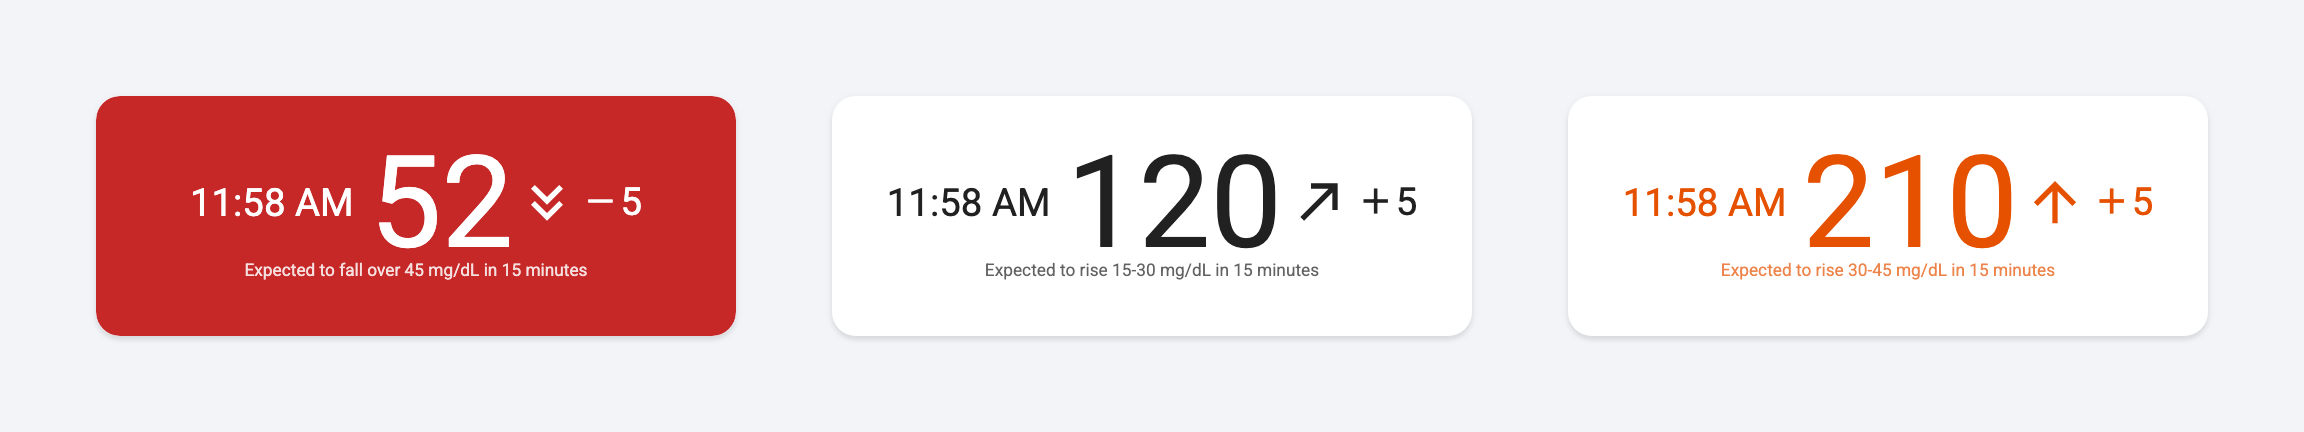
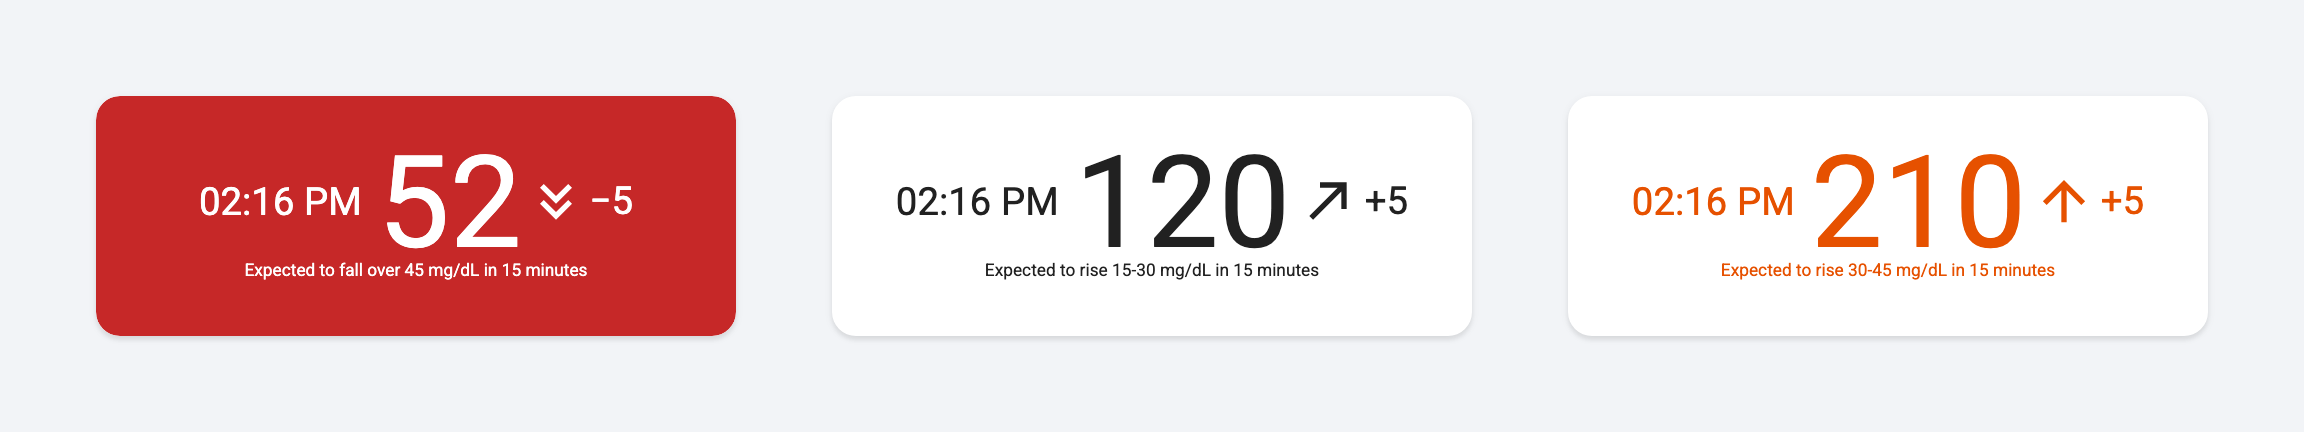
fix: keep a stale card readable, and stop the forecast fading twice
The stale fade has been 0.5 since v0.9.3, which puts the reading at 3.2:1
against the card -- exactly on the large-text floor, and visibly washed
out at a glance. A stale card is still reporting the last reading anyone
got, and that is information you want even when it is old: the fade has
to say "do not trust this as current" without saying "stop being able to
see it". 0.7 holds the reading at 5.9:1 and is still an obvious step
below the rung above it, which moves to 0.85 to keep the three rungs
apart.

The compounding was the bigger half. Opacity multiplies down the tree, so
the forecast line's own 0.7 composited with the card fade to 0.35 and
2.1:1 on a stale card, below every threshold at any size, and to 2.6:1 on
the orange out-of-range zones even on a current reading. It reads as
secondary from font size alone -- 2.7u against the reading's 20u -- so
the opacity was pure cost. Removing it also retires the urgent-zone
override, which existed only to claw back what the 0.7 had taken: white
on red goes from 4.4:1 to 5.6:1 by deleting both.

Adds the first suite that reads the real stylesheet. Every other test
file mocks it away, so the CSS the card actually renders through had no
assertions at all -- an inverted or unreadable ladder passed the entire
suite. It pins the rung ordering, a contrast floor per rung, and the
absence of a compounding opacity on the forecast line.

diff --git a/test/styles.test.js b/test/styles.test.js
@@ -1,0 +1,127 @@
+import { describe, it, expect, vi } from 'vitest';
+
+/*
+ * The one suite that reads the REAL stylesheet.
+ *
+ * Every other test file mocks `sugartv-card-styles.js` away, so the card's
+ * logic is covered and the CSS that renders it is not. That gap is where the
+ * age fade actually lives: `_ageTier` can name the rungs perfectly and the card
+ * still draw them in the wrong order, or draw a stale reading too faint to
+ * read, and no assertion anywhere would notice.
+ *
+ * `css` is stubbed to return the raw string so the rules can be parsed.
+ */
+vi.mock('lit', () => ({
+    css: (strings, ...values) =>
+        strings.reduce(
+            (acc, s, i) => acc + s + (values[i] !== undefined ? values[i] : ''),
+            '',
+        ),
+}));
+
+const { cardStyles } = await import('../src/sugartv-card-styles.js');
+
+// The opacity declared inside `:host(<selector>)`, or null when the rung
+// declares none, which is how "full strength" is spelled.
+const hostOpacity = (selector) => {
+    const block = cardStyles.match(
+        new RegExp(`:host\\(\\.${selector}\\)\\s*\\{([^}]*)\\}`),
+    );
+    if (!block) return null;
+    const found = block[1].match(/opacity:\s*([\d.]+)/);
+    return found ? Number(found[1]) : null;
+};
+
+/*
+ * Composite text over the card and score it the way WCAG does. The card's
+ * default text is HA's #212121 on a white card; the numbers below are the
+ * reason the rungs sit where they do rather than on round-looking values.
+ */
+const contrastOnWhite = (alpha) => {
+    const channel = Math.round(255 - alpha * (255 - 33));
+    const linear = (v) => {
+        const s = v / 255;
+        return s <= 0.03928 ? s / 12.92 : ((s + 0.055) / 1.055) ** 2.4;
+    };
+    const luminance = linear(channel); // grey, so one channel describes it
+    return (1.0 + 0.05) / (luminance + 0.05);
+};
+
+describe('the age fade in the stylesheet', () => {
+    it('draws a current reading at full strength', () => {
+        // No rung of its own: full strength is the card's ordinary appearance.
+        expect(hostOpacity('current')).toBeNull();
+    });
+
+    /*
+     * The direction, asserted on the CSS rather than on the tier names. An
+     * inverted stylesheet passes every logic test in the suite, which is how
+     * the backwards version shipped in two releases.
+     */
+    it('never draws an older rung brighter than a newer one', () => {
+        const current = 1;
+        const aging = hostOpacity('aging');
+        const stale = hostOpacity('stale');
+
+        expect(aging).toBeLessThan(current);
+        expect(stale).toBeLessThan(aging);
+    });
+
+    /*
+     * A stale card is still reporting the last reading anyone got, which is
+     * information you want even when it is old. The fade has to say "do not
+     * trust this as current" without saying "you may stop being able to see
+     * it". 0.5 shipped for five releases and sat at 3.2:1, right on the
+     * large-text floor.
+     */
+    it('keeps a stale reading readable', () => {
+        expect(contrastOnWhite(hostOpacity('stale'))).toBeGreaterThanOrEqual(
+            4.5,
+        );
+    });
+
+    it('keeps every rung above it readable too', () => {
+        expect(contrastOnWhite(hostOpacity('aging'))).toBeGreaterThanOrEqual(
+            4.5,
+        );
+    });
+
+    /*
+     * Opacity multiplies through the tree, so any element carrying its own
+     * fades twice on a stale card. The forecast line used to carry 0.7, which
+     * put it at 2.1:1 there -- below every threshold at any size. Hierarchy on
+     * that line is font size now, and this pins it: re-adding an opacity here
+     * would silently reintroduce the compounding.
+     */
+    it('leaves the forecast line without an opacity to compound', () => {
+        /*
+         * EVERY rule whose selector list mentions .prediction, not the first
+         * one that matches. The first version of this test looked for
+         * `.prediction {` and found the grouped `.time, .value, .delta,
+         * .prediction {` rule instead, which has never carried an opacity -- so
+         * it passed whatever the real rule said, including with the 0.7 put
+         * back. An opacity on the grouped rule would compound just as badly, so
+         * checking all of them is also the stronger assertion.
+         */
+        const blocks = [...cardStyles.matchAll(/([^{}]*)\{([^}]*)\}/g)].filter(
+            ([, selector]) => /(^|,)\s*\.prediction\s*$/m.test(selector),
+        );
+
+        expect(blocks.length).toBeGreaterThan(0);
+        for (const [, , body] of blocks) {
+            expect(body).not.toMatch(/opacity/);
+        }
+    });
+
+    /*
+     * Colour is spent on this card: orange means "out of range" and red means
+     * "urgent". The fade must not reach for either, or a stale high reading
+     * would paint two unrelated meanings the same colour.
+     */
+    it('fades with contrast rather than colour', () => {
+        const stale = cardStyles.match(/:host\(\.stale\)\s*\{([^}]*)\}/)[1];
+
+        expect(stale).not.toMatch(/color|background/);
+        expect(stale).toMatch(/grayscale/);
+    });
+});

diff --git a/src/sugartv-card-styles.js b/src/sugartv-card-styles.js
@@ -207,11 +207,19 @@ export const cardStyles = css`
      * measured from the rendered glyphs, and is zero whenever the reading has
      * no descender, which is every mg/dL card.
      */
+    /*
+     * No opacity of its own, deliberately. It used to carry 0.7 to read as
+     * secondary, but font size already says that -- 2.7u against the reading's
+     * 20u -- and the opacity cost more than it bought. It multiplied with the
+     * age fade below, so a stale forecast landed at 0.35 and 2.1:1 against the
+     * card, which is not readable at any size; and on the orange out-of-range
+     * zones it fell to 2.6:1 even on a current reading. Hierarchy by size,
+     * contrast left alone.
+     */
     .prediction {
         font-size: calc(2.7 * var(--u));
         margin-top: calc(var(--value-descent, 0) * var(--u));
         max-width: 100%;
-        opacity: 0.7;
         text-align: center;
     }
 
@@ -238,11 +246,26 @@ export const cardStyles = css`
     }
 
     :host(.aging) {
-        opacity: 0.75;
+        opacity: 0.85;
     }
 
+    /*
+     * A stale card must still be READABLE. It is reporting the last reading
+     * anyone got, which is information you want even when it is old; the fade
+     * says "do not trust this as current", not "you may stop being able to see
+     * it". 0.5 shipped from v0.9.3 and put the reading at 3.2:1 against the
+     * card, right on the large-text floor, with the forecast line below any
+     * threshold at all. 0.7 holds the reading at 5.9:1 and is still an obvious
+     * step down from the rung above.
+     *
+     * The greyscale does the rest, and does it where opacity cannot: on the
+     * coloured zones it is the whole signal, and it happens to RAISE contrast
+     * rather than lower it, since orange desaturates toward a darker luma
+     * (3.8:1 to 5.3:1). On a normal white card it changes nothing visible,
+     * which is why the opacity has to carry that case on its own.
+     */
     :host(.stale) {
-        opacity: 0.5;
+        opacity: 0.7;
         filter: grayscale(0.8);
     }
 
@@ -256,11 +279,6 @@ export const cardStyles = css`
     :host(.zone-low),
     :host(.zone-high) {
         color: var(--sugartv-warning-text, #e65100);
-    }
-
-    :host(.zone-urgent-low) .prediction,
-    :host(.zone-urgent-high) .prediction {
-        opacity: 0.85;
     }
 
     /*

diff --git a/.claude/rules/typography.md b/.claude/rules/typography.md
@@ -66,6 +66,18 @@ Relocated verbatim from the repo root `CLAUDE.md`. Read before editing this doma
   learned it once: `.time.stale` used to go red, and the whole-card fade
   replaced it precisely because colour could not work across the zones.
   Before adding a colour, check the zone rules; before adding a tier, check
-  whether opacity says it. Related: a tier whose text never changes still needs
+  whether opacity says it. But opacity MULTIPLIES down the tree, so a
+  card-level fade lands on top of whatever an element already carries: the
+  forecast line held its own 0.7 to read as secondary, which under the stale
+  fade composited to 0.35 and 2.1:1 against the card, unreadable at any size,
+  and on the orange out-of-range zones it sat at 2.6:1 even on a current
+  reading. It reads as secondary from font size alone (2.7u against the
+  reading's 20u), so the opacity was pure cost. Before giving an element its
+  own opacity, ask what it will compose with; and score a fade by its
+  resulting CONTRAST rather than by how the number looks, since 0.5 sounds
+  like "half visible" and is really 3.2:1, right on the large-text floor.
+  A stale card still has to be readable: it carries the last reading anyone
+  got, and the fade means "do not trust this as current", not "stop being able
+  to see it". Related: a tier whose text never changes still needs
   the age ticker, since only the tier moves, and a frozen card then looks
   correct rather than stuck.
